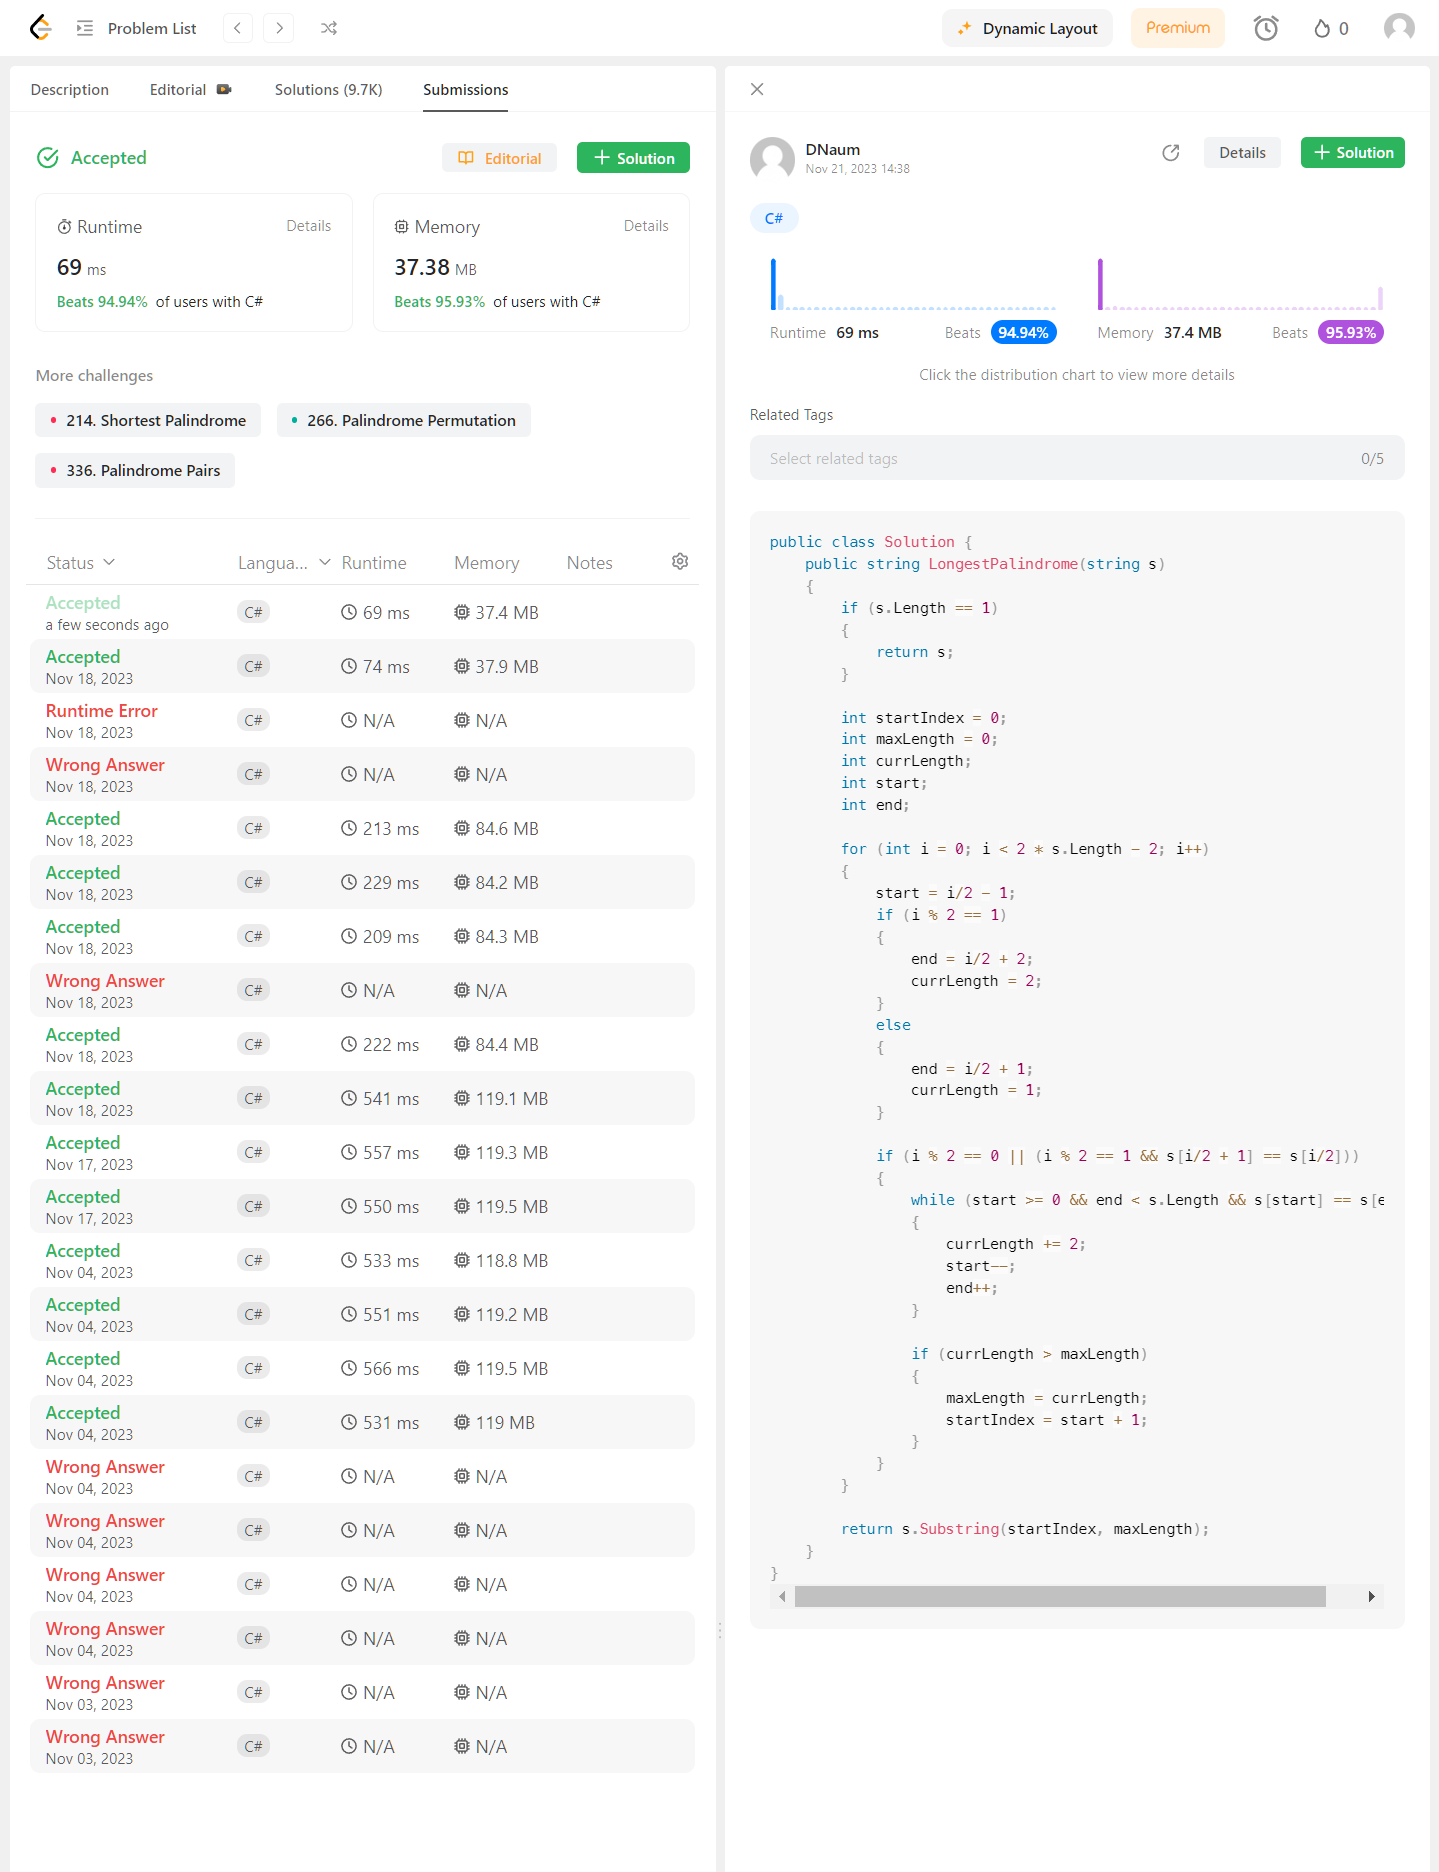
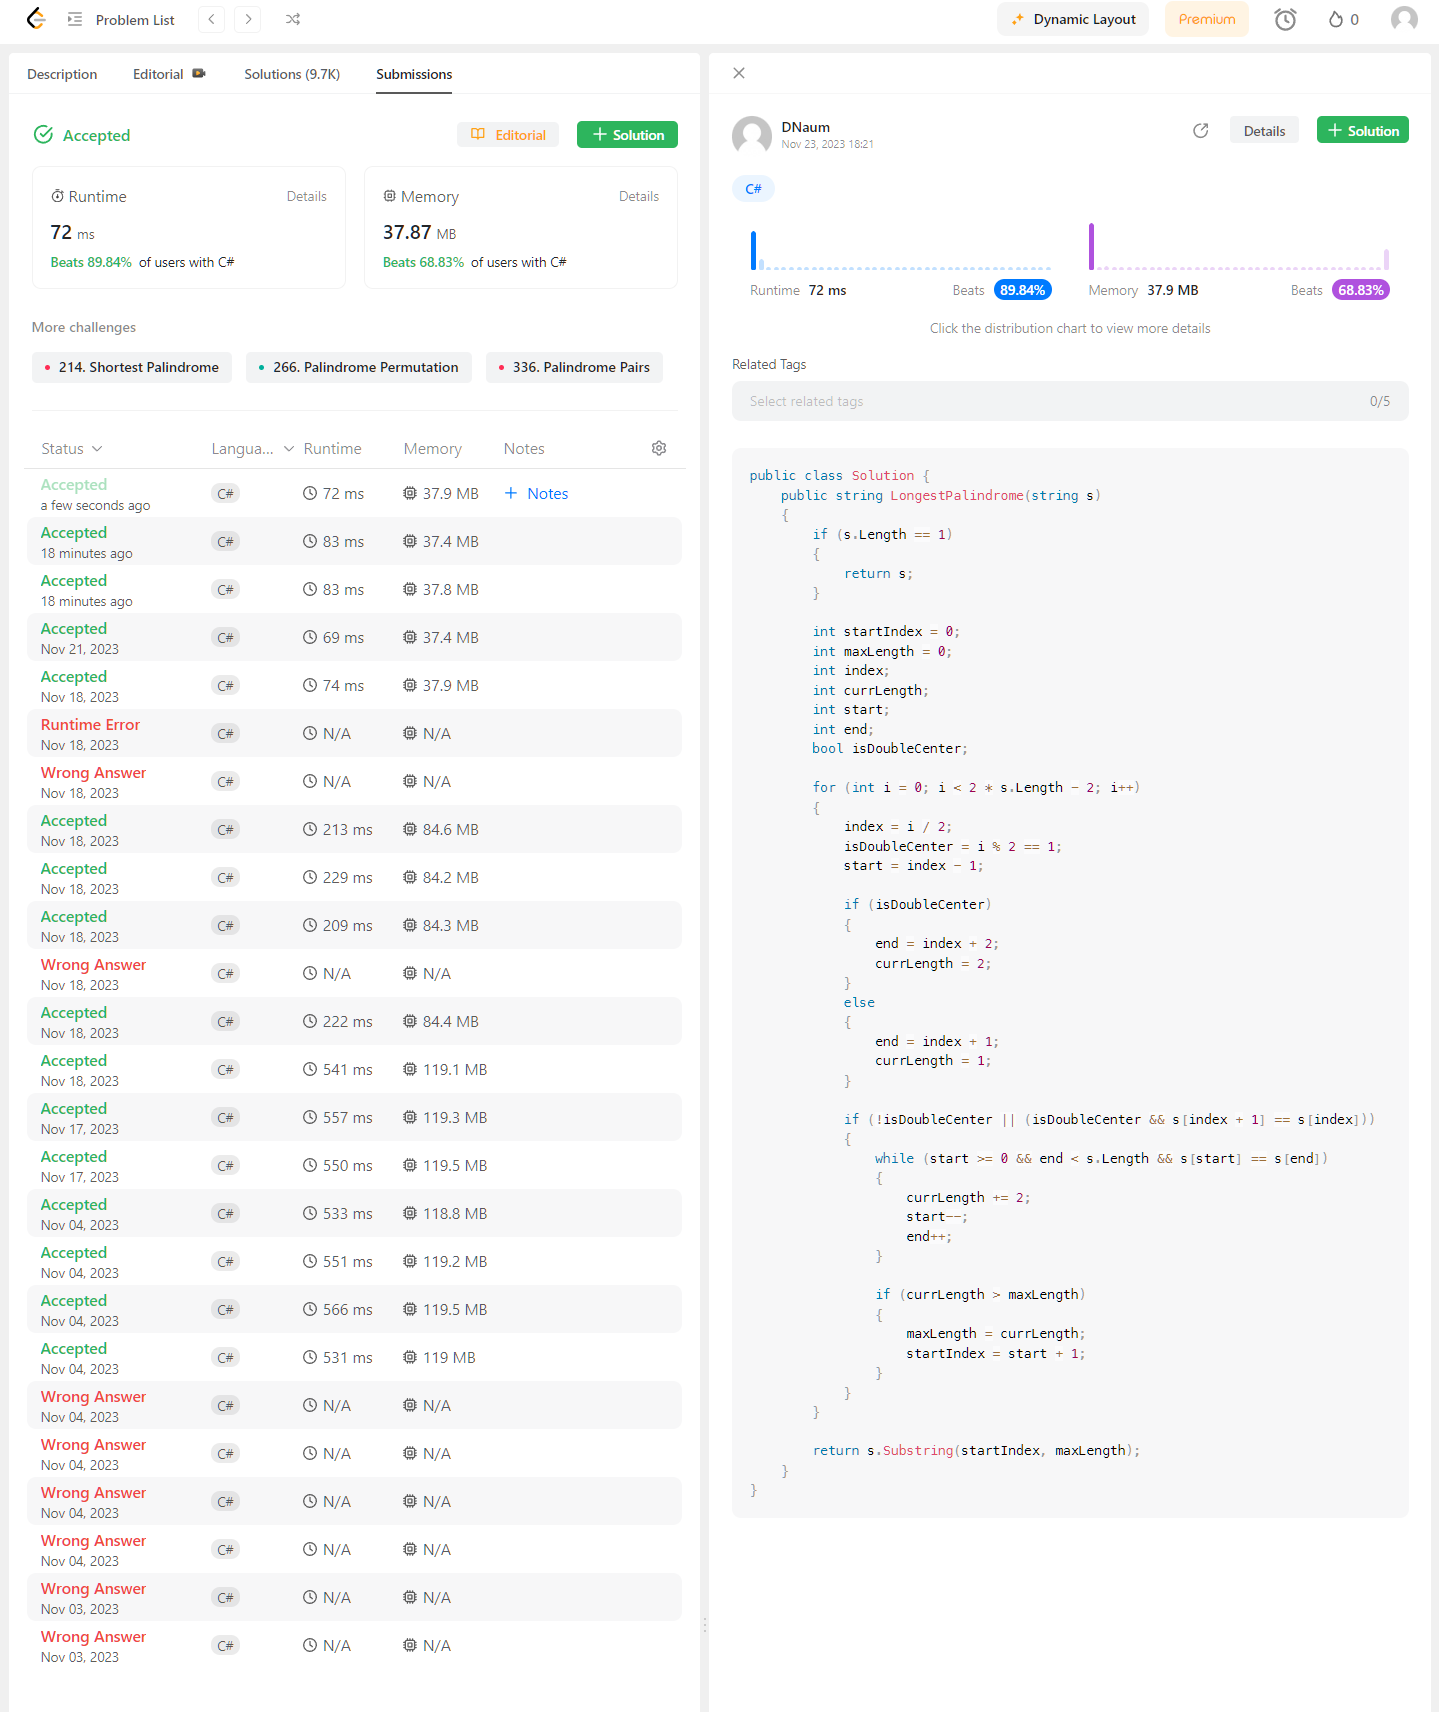
1. Added Alternative solution with separate method for calculating the new start index and length of longest palindromic substring. 2. Improved readability and formatted the existing solution. 3. Added test entry and applied MemberData approach with static Data property for test cases. 4. LC results

diff --git a/ScnSoft-Education/LeetCodeTraining/LongestPalindrome/LongestPalindromeSolution.cs b/ScnSoft-Education/LeetCodeTraining/LongestPalindrome/LongestPalindromeSolution.cs
@@ -3,6 +3,54 @@
     //https://leetcode.com/problems/longest-palindromic-substring/
     public static class LongestPalindromeSolution
     {
+        public static string LongestPalindromeAlternative(string s)
+        {
+            if (s.Length == 1)
+            {
+                return s;
+            }
+
+            int startIndex = 0;
+            int maxLength = 1;
+            int currLength;
+            int start;
+            int end;
+
+            for (int i = 0; i < s.Length - 1; i++)
+            {
+                start = i - 1;
+                end = i + 1;
+                currLength = 1;
+                FindNewStartAndLength();
+
+                if (s[i] == s[i + 1])
+                {
+                    start = i - 1;
+                    end = i + 2;
+                    currLength = 2;
+                    FindNewStartAndLength();
+                }
+            }
+
+            return s.Substring(startIndex, maxLength);
+
+            void FindNewStartAndLength()
+            {
+                while (start >= 0 && end < s.Length && s[start] == s[end])
+                {
+                    currLength += 2;
+                    start--;
+                    end++;
+                }
+
+                if (currLength > maxLength)
+                {
+                    maxLength = currLength;
+                    startIndex = start + 1;
+                }
+            }
+        }
+
         public static string LongestPalindrome(string s)
         {
             if (s.Length == 1)
@@ -11,27 +59,31 @@
             }
 
             int startIndex = 0;
-            int maxLength = 0;
+            int maxLength = 0;  
+            int index;
             int currLength;
             int start;
             int end;
+            bool isDoubleCenter;
 
             for (int i = 0; i < 2 * s.Length - 2; i++)
             {
-                start = i/2 - 1;
+                index = i / 2;
+                isDoubleCenter = i % 2 == 1;
+                start = index - 1;
 
-                if (i % 2 == 1)
+                if (isDoubleCenter)
                 {
-                    end = i/2 + 2;
+                    end = index + 2;
                     currLength = 2;
                 }
                 else
                 {
-                    end = i/2 + 1;
+                    end = index + 1;
                     currLength = 1;
                 }
 
-                if (i % 2 == 0 || (i % 2 == 1 && s[i/2 + 1] == s[i/2]))
+                if (!isDoubleCenter || (isDoubleCenter && s[index + 1] == s[index]))
                 {
                     while (start >= 0 && end < s.Length && s[start] == s[end])
                     {

diff --git a/ScnSoft-Education/LeetCodeTraining.Tests/LongestPalindromeTests.cs b/ScnSoft-Education/LeetCodeTraining.Tests/LongestPalindromeTests.cs
@@ -5,15 +5,7 @@ namespace LeetCodeTraining.Tests
     public class LongestPalindromeTests
     {
         [Theory]
-        [InlineData("babad", new string[] { "bab", "aba" })]
-        [InlineData("cbbd", new string[] { "bb" })]
-        [InlineData("ccc", new string[] { "ccc" })]
-        [InlineData("a", new string[] { "a" })]
-        [InlineData("dd", new string[] { "dd" })]
-        [InlineData("abab", new string[] { "aba", "bab" })]
-        [InlineData("cccc", new string[] { "cccc" })]
-        [InlineData("babba", new string[] { "abba" })]
-        [InlineData("bcbabdb", new string[] { "bcb", "bab", "bdb" })]
+        [MemberData(nameof(Data))]
         public void LongestPalindromeTest(string input, string[] expectedResults)
         {
             //Act
@@ -22,5 +14,31 @@ namespace LeetCodeTraining.Tests
             //Assert
             Assert.Contains(expectedResults, x => x == result);
         }
+
+        [Theory]
+        [MemberData(nameof(Data))]
+        public void LongestPalindromeAlternativeTest(string input, string[] expectedResults)
+        {
+            //Act
+            string result = LongestPalindromeSolution.LongestPalindromeAlternative(input);
+
+            //Assert
+            Assert.Contains(expectedResults, x => x == result);
+        }
+
+        public static IEnumerable<object[]> Data =>
+        new List<object[]>
+        {
+            new object[] { "babad", new string[] { "bab", "aba" } },
+            new object[] { "cbbd", new string[] { "bb" } },
+            new object[] { "ccc", new string[] { "ccc" } },
+            new object[] { "a", new string[] { "a" } },
+            new object[] { "dd", new string[] { "dd" } },
+            new object[] { "abab", new string[] { "aba", "bab" } },
+            new object[] { "cccc", new string[] { "cccc" } },
+            new object[] { "babba", new string[] { "abba" } },
+            new object[] { "fabccbad", new string[] { "abccba" } },
+            new object[] { "bcbabdb", new string[] { "bcb", "bab", "bdb" }}
+        };
     }
 }
